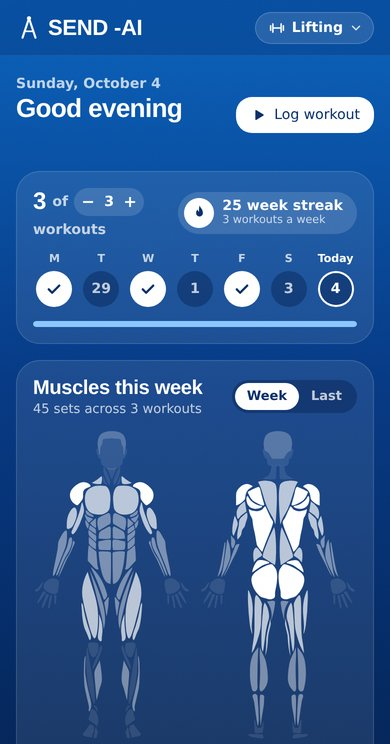
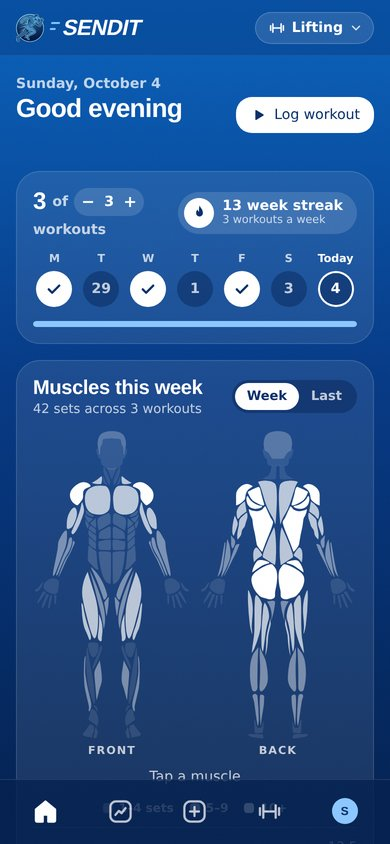
Refresh README screenshots and use the SendIt name
Claude-Session: https://claude.ai/code/session_014sYXKNF6Cz8zhASM6ZJgCE

diff --git a/README.md b/README.md
@@ -1,8 +1,8 @@
 <div align="center">
 
-<img src="public/icons/icon-512.png" width="112" alt="Send logo" />
+<img src="public/icons/icon-512.png" width="112" alt="SendIt logo" />
 
-# Send
+# SendIt
 
 **Every sport. One log. Keep the streak.**
 
@@ -11,13 +11,13 @@ Log a session in a few taps, then see your progress, PRs and every muscle you wo
 
 [**justsend.fit**](https://justsend.fit) · [Privacy](https://justsend.fit/privacy.html)
 
-<img src="docs/screenshots/landing.jpg" alt="Send landing page" width="820">
+<img src="docs/screenshots/landing.jpg" alt="SendIt landing page" width="820">
 
 </div>
 
 ## Why
 
-Most fitness apps cover one sport and charge a premium for the charts. Send puts all of your training in one place, keeps logging fast, and focuses on the analytics that tell you whether you are getting stronger.
+Most fitness apps cover one sport and charge a premium for the charts. SendIt puts all of your training in one place, keeps logging fast, and focuses on the analytics that tell you whether you are getting stronger.
 
 ## Screenshots
 
